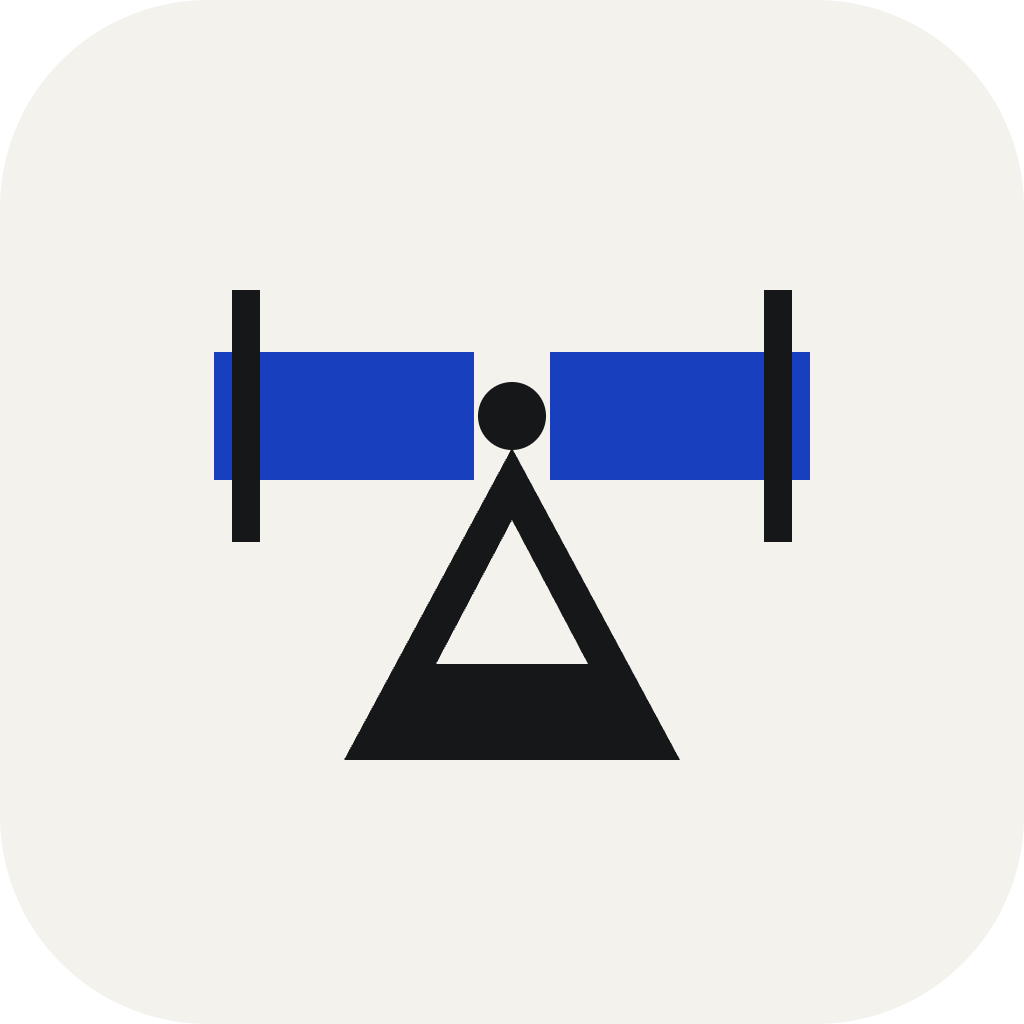
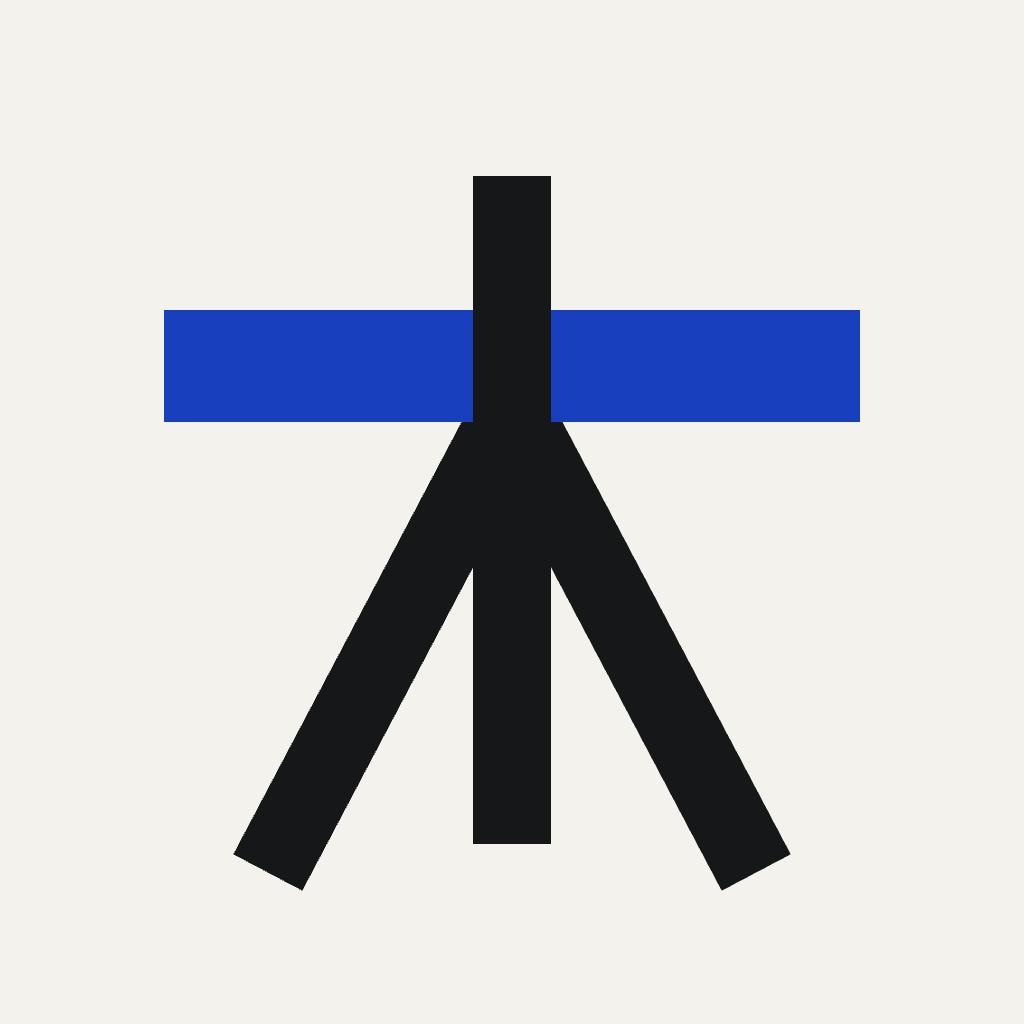
fix: redesign Hengmu visual identity

Changed region(s): [[0.1562, 0.1562, 0.8438, 0.875]]

diff --git a/docs/assets/brand/design-philosophy.md b/docs/assets/brand/design-philosophy.md
@@ -1,11 +1,11 @@
-# Measured Continuity
+# Quiet Measure
 
-Measured Continuity treats structure as a quiet act of care. Space is not filled; it is calibrated. A long beam, a precise fulcrum, and a single interruption carry more meaning than a field of decoration. Every relationship should feel deliberately tested, with the calm authority of work refined through countless small corrections.
+Quiet Measure makes structure visible without illustrating it literally. Form grows from joinery: one decisive horizontal member meets a vertical spine, then releases its load through two diagonal paths. The image should feel discovered inside the material rather than placed on top of it, with every junction refined through painstaking, master-level craft.
 
-Ink establishes the durable frame while one disciplined blue plane identifies the decision that matters. Warm white is active space rather than an empty background: it gives evidence, trade-offs, and future movement room to breathe. Color is never atmospheric ornament. It is a sparse signal, calibrated with painstaking attention and master-level restraint.
+Warm white is the primary field, not a backdrop. Ink gives the work gravity; one concentrated blue beam carries identity and direction. No decorative color competes with that beam. The palette is calibrated with the restraint of a technical instrument and the sensitivity of an editorial page.
 
-Scale creates the rhythm. Large structural forms make the system legible from a distance; hairline references reward a closer look. Repetition appears only where it proves order, while one asymmetry reveals the point of judgment. The result should feel meticulously crafted by someone who understands both engineering tolerances and editorial pacing.
+Scale creates tension through contrast. A monumental name or structural mark is balanced by small, exact reference text and hairline measurements. Negative space remains generous and intentional. Every interval should look meticulously adjusted by someone with deep expertise in both typography and engineered form.
 
-Composition is balanced without becoming static. The visible center is a fulcrum, but the eye continues beyond it along an unfinished line. This tension carries the idea of continuous building: every decision is grounded in present evidence while leaving a clear direction for what comes next. Alignment, margin, and optical weight receive the same painstaking care as the primary mark.
+Typography behaves as material. Chinese serif forms provide cultural weight and a quiet human cadence; neutral sans-serif and monospaced annotations provide precision. Words remain sparse, never filling space for its own sake. Their baselines, tracking, and optical alignment receive the same painstaking attention as the graphic structure.
 
-Typography remains rare and exact. A name, one proposition, and a small provenance label are enough; the structure performs the explanation. The final work must look labored over by a top practitioner, with every edge, interval, and contrast resolved until nothing can be removed without weakening the whole.
+Composition stays asymmetrical but resolved. The eye moves from identity to proposition, then along a measured line toward an unfinished edge. This is continuity without motion effects: the visual promise that judgment can be grounded now while the system remains capable of change. The final artifact must feel inevitable, meticulously crafted, and impossible to simplify without losing meaning.

diff --git a/docs/assets/brand/README.md b/docs/assets/brand/README.md
@@ -33,12 +33,13 @@ redraw, rotate, restack, or alter its paths.
 
 ## Hengmu mark
 
-The Hengmu icon combines four ideas:
+The Hengmu icon combines two written ideas in one structural mark:
 
-1. a blue measuring beam for explicit architectural judgment;
-2. black end marks for scope and constraints;
-3. a dark fulcrum for trade-offs;
-4. an open center joint for evidence-driven change.
+1. the Qingye-blue horizontal member is the explicit measuring beam, `衡`;
+2. the ink-black spine and load paths abstract the timber structure, `木`.
+
+The mark is intentionally joinery rather than a literal scale, shield,
+building, or architecture diagram.
 
 Its visual philosophy is documented in
 [`design-philosophy.md`](design-philosophy.md). The SVG files are the

diff --git a/README.zh-CN.md b/README.zh-CN.md
@@ -1,6 +1,6 @@
 <p align="center">
   <img
-    src="docs/assets/brand/zh-CN/hengmu-banner.svg"
+    src="docs/assets/brand/zh-CN/hengmu-banner.png"
     width="100%"
     alt="衡木——让每一个架构判断都有证据、有权衡、有去路；青野开源项目"
   >

diff --git a/README.md b/README.md
@@ -1,6 +1,6 @@
 <p align="center">
   <img
-    src="docs/assets/brand/en/hengmu-banner.svg"
+    src="docs/assets/brand/en/hengmu-banner.png"
     width="100%"
     alt="Hengmu — evidence-backed architecture decisions, a Qingye open-source project"
   >
